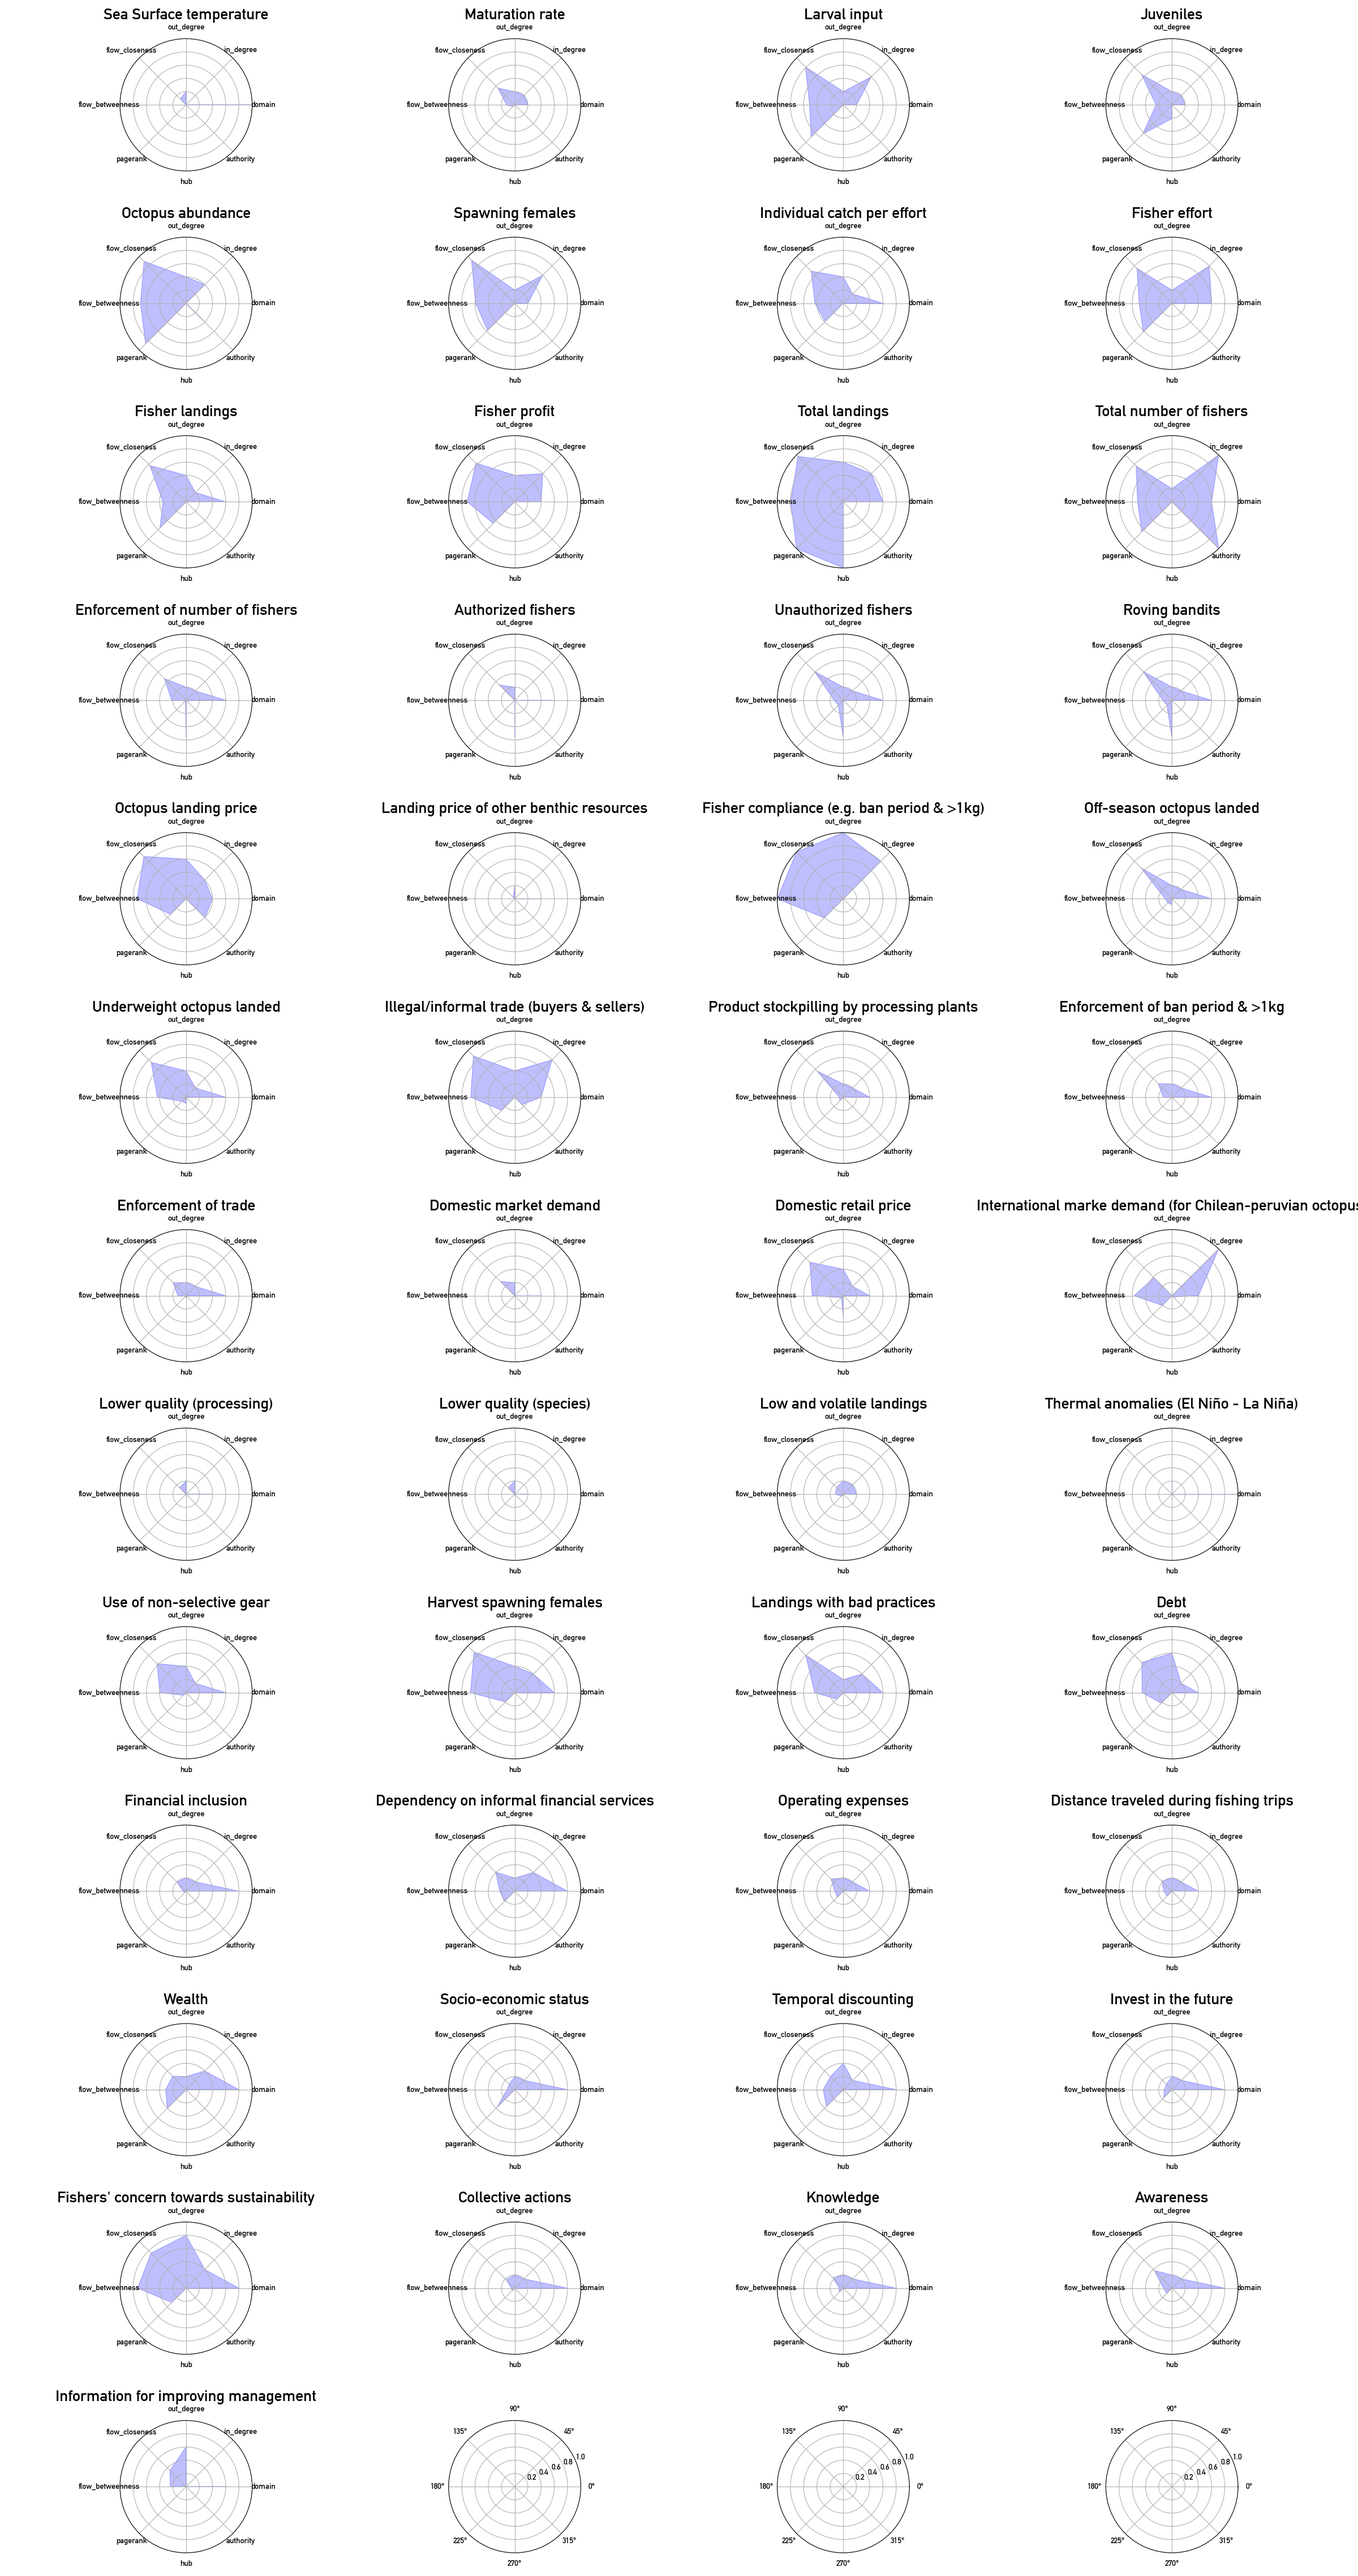
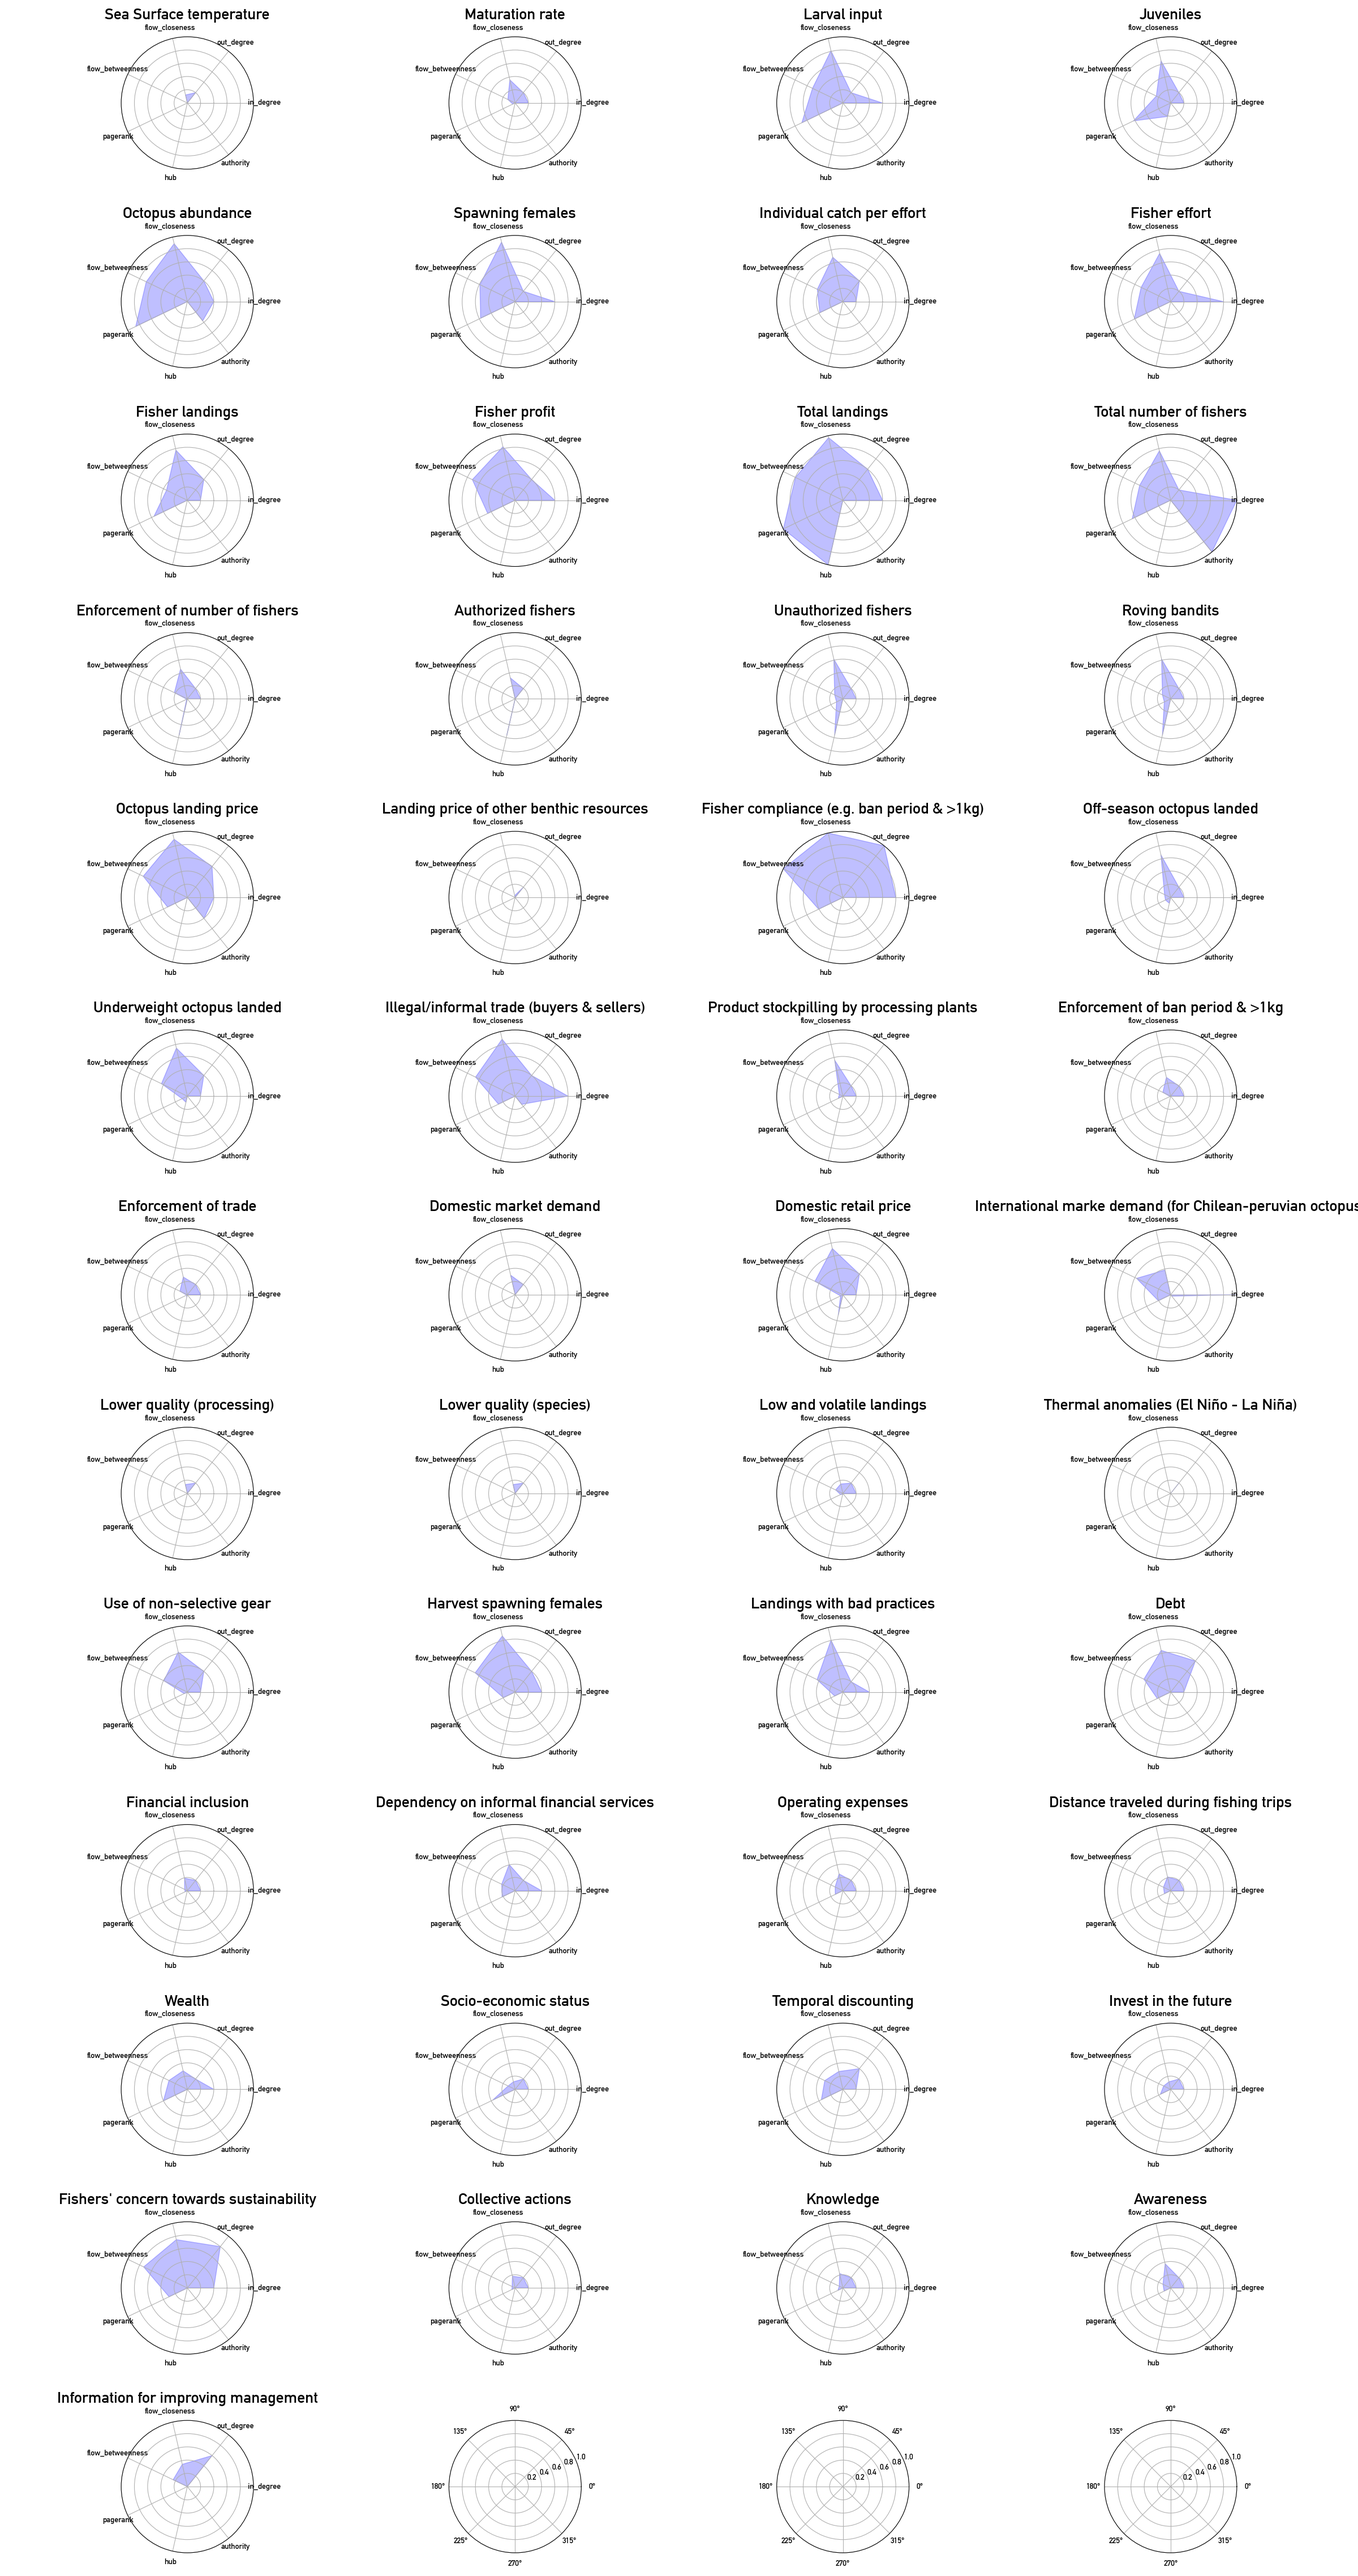
fix multiselect centrality archetypes

diff --git a/streamlit/utilities.py b/streamlit/utilities.py
@@ -1078,7 +1078,7 @@ def plot_centrality_archetypes(G):
         centrality_summary_df_styled, centrality_ranks_df_styled, average_ranks_df_styled, centrality_summary_df, centrality_ranks_df = load_centrality(G)
 
         # Get the column names excluding 'label'
-        columns = [col for col in centrality_summary_df.columns if col != 'label']
+        columns = [col for col in centrality_summary_df.columns if col not in ['label', 'domain']]
 
         # Create a multiselect widget for the columns
         selected_columns = st.multiselect('Select the centrality metrics to include', columns, default=columns)
